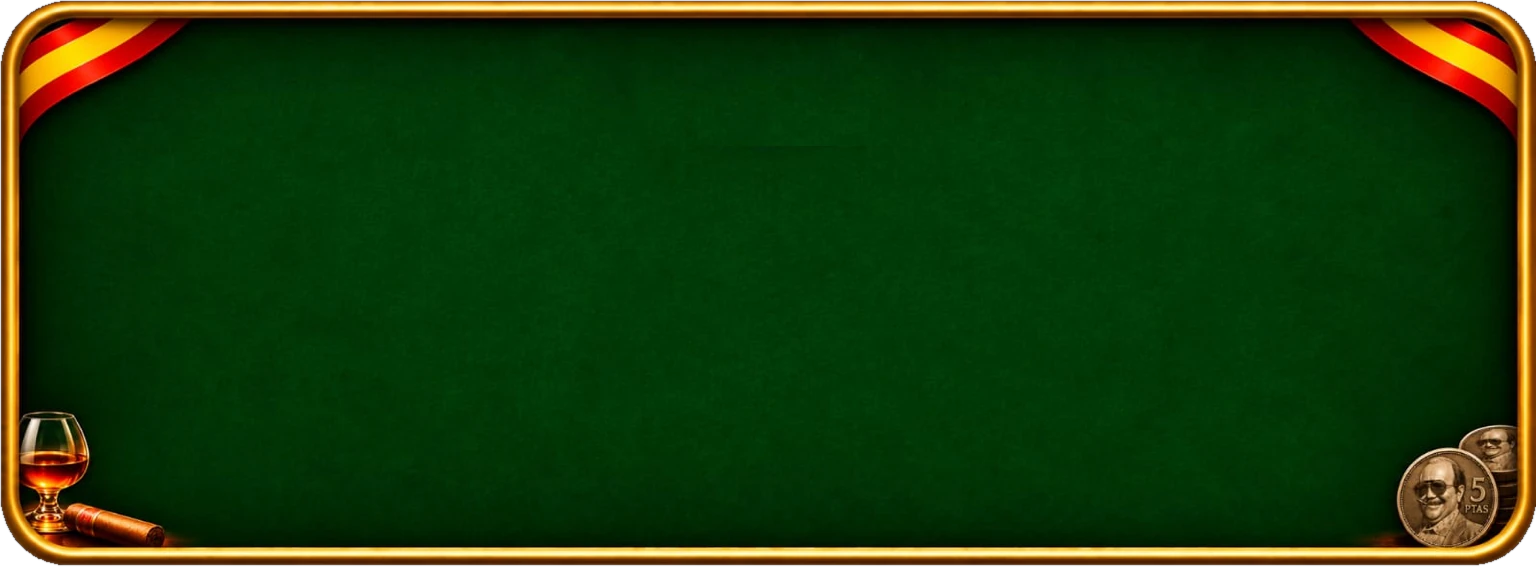
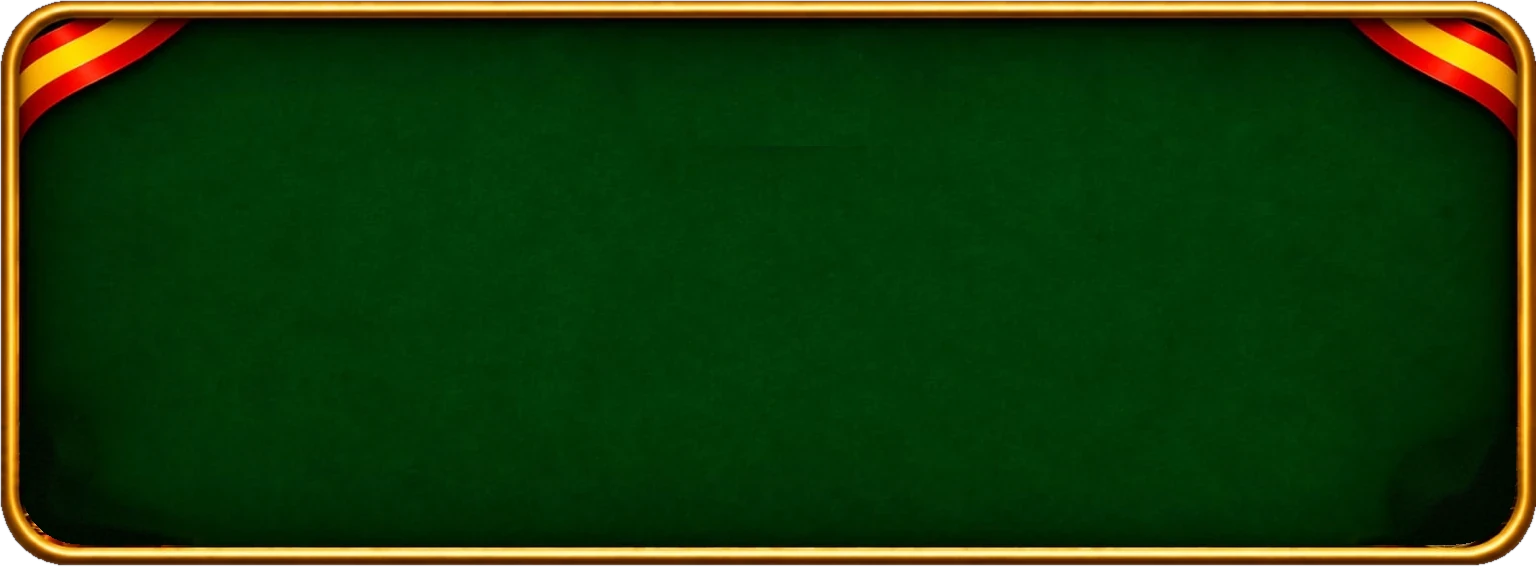
Tapete: copa y monedas un 45 % más grandes sin pisar nada
La copa con el puro y las monedas se separan del marco (silueta con transparencia) y
se dibujan aparte, ampliadas desde su esquina interior; el marco queda limpio debajo.
La franja libre inferior crece exactamente lo que ocupan. En mesas donde ni
encogiendo al mínimo cabe el contenido, los adornos ceden sitio antes.

Claude-Session: https://claude.ai/code/session_01CZ7U547hvW6Fga5U6412c8

Changed region(s): [[0.875, 0.7443, 1.0, 0.9527], [0.0, 0.7145, 0.125, 0.9527]]

diff --git a/apps/web/catalog-games.css b/apps/web/catalog-games.css
@@ -482,17 +482,19 @@ button.burro-back{cursor:pointer}button.burro-back:hover,button.burro-back:focus
 /* ── Tapete clásico de cartas (marco dorado, banderas, copa y monedas) ─────────────────────────
    La imagen original (1536×571) se dibuja como border-image de 9 piezas: las cuatro esquinas, que
    llevan los adornos, conservan siempre su proporción; los lados y el centro son paño y se estiran.
-   Cortes de la imagen: 142 arriba · 192 a cada lado · 168 abajo (cubren banderas, copa y monedas).
-   El logo va aparte (::before) para que no se deforme al estirar la tira superior.
+   Cortes de la imagen: 142 arriba · 192 a cada lado · 168 abajo (cubren banderas y marco).
+   El logo va aparte (::before) para que no se deforme al estirar la tira superior, y la copa y las
+   monedas también (::after), dibujadas --felt-deco veces más grandes desde su esquina interior.
    El relleno del tapete reserva exactamente esas franjas: ninguna carta ni texto pisa un adorno. */
 .catalog-screen:is([data-game="brisca"],[data-game="tute"],[data-game="guinote"],[data-game="butifarra"],[data-game="pocha"],[data-game="julepe"],[data-game="escoba"],[data-game="chinchon"],[data-game="remigio"],[data-game="continental"],[data-game="burro"],[data-game="mentiroso"],[data-game="siete_y_medio"]) .catalog-surface{
  --felt-w:clamp(34px,min(11vw,9.5svh),92px);
  --felt-top:calc(var(--felt-w) * 142 / 192);
- --felt-bottom:calc(var(--felt-w) * 168 / 192);
+ --felt-deco:1.45;
+ --felt-bottom:calc(var(--felt-w) * (26 + 135 * var(--felt-deco)) / 192);
  --felt-side:calc(var(--felt-w) * 24 / 192);
  position:relative;isolation:isolate;
  border:3px solid transparent;
- border-image:url('./assets/tapete-cartas-marco.webp') 142 192 168 192 fill / var(--felt-top) var(--felt-w) var(--felt-bottom) var(--felt-w) / 0 stretch;
+ border-image:url('./assets/tapete-cartas-marco.webp') 142 192 168 192 fill / var(--felt-top) var(--felt-w) calc(var(--felt-w) * 168 / 192) var(--felt-w) / 0 stretch;
  border-radius:calc(var(--felt-w) * 54 / 192);
  background:none;
  box-shadow:0 5px 12px #0008;
@@ -504,4 +506,11 @@ button.burro-back{cursor:pointer}button.burro-back:hover,button.burro-back:focus
  top:calc(var(--felt-w) * 22 / 192 - 3px);left:50%;translate:-50% 0;
  width:calc(var(--felt-w) * 287 / 192);aspect-ratio:287 / 124;
  background:url('./assets/tapete-cartas-logo.webp') center / 100% 100% no-repeat;
+}
+
+.catalog-screen:is([data-game="brisca"],[data-game="tute"],[data-game="guinote"],[data-game="butifarra"],[data-game="pocha"],[data-game="julepe"],[data-game="escoba"],[data-game="chinchon"],[data-game="remigio"],[data-game="continental"],[data-game="burro"],[data-game="mentiroso"],[data-game="siete_y_medio"]) .catalog-surface::after{
+ content:'';position:absolute;z-index:-1;pointer-events:none;
+ left:0;right:0;bottom:calc(var(--felt-w) * 26 / 192 - 3px);height:calc(var(--felt-w) * 135 * var(--felt-deco) / 192);
+ background:url('./assets/tapete-cartas-copa.webp') left calc(var(--felt-w) * 20 / 192 - 3px) bottom 0 / calc(var(--felt-w) * 172 * var(--felt-deco) / 192) auto no-repeat,
+  url('./assets/tapete-cartas-monedas.webp') right calc(var(--felt-w) * 20 / 192 - 3px) bottom 0 / calc(var(--felt-w) * 158 * var(--felt-deco) / 192) auto no-repeat;
 }

diff --git a/apps/web/cinquillo-table.css b/apps/web/cinquillo-table.css
@@ -176,13 +176,14 @@ body:has(.cinquillo-screen) { background:radial-gradient(ellipse at 50% 0,#352a3
 .game-page.cinquillo-screen .game-table{
  --felt-w:clamp(22px,min(11.5cqw,11cqh),92px);
  --felt-top:calc(var(--felt-w) * 142 / 192);
- --felt-bottom:calc(var(--felt-w) * 168 / 192);
+ --felt-deco:1.45;
+ --felt-bottom:calc(var(--felt-w) * (26 + 135 * var(--felt-deco)) / 192);
  --felt-in-top:calc(13px + var(--felt-top));
  --felt-in-bottom:calc(13px + var(--felt-bottom));
 }
 .game-page.cinquillo-screen .game-table .table-surface{
  border:3px solid transparent;
- border-image:url('./assets/tapete-cartas-marco.webp') 142 192 168 192 fill / var(--felt-top) var(--felt-w) var(--felt-bottom) var(--felt-w) / 0 stretch;
+ border-image:url('./assets/tapete-cartas-marco.webp') 142 192 168 192 fill / var(--felt-top) var(--felt-w) calc(var(--felt-w) * 168 / 192) var(--felt-w) / 0 stretch;
  border-radius:calc(var(--felt-w) * 54 / 192);
  background:none;
  box-shadow:0 5px 12px #0008;
@@ -200,5 +201,11 @@ body:has(.cinquillo-screen) { background:radial-gradient(ellipse at 50% 0,#352a3
 @media(min-width:900px) and (min-height:700px){
  .game-page.cinquillo-screen .game-table .table-center{--pile-w:clamp(28px,min(calc((100cqw - 132px) / 4),calc((100cqh - var(--felt-in-top) - var(--felt-in-bottom) - 124px) / 3.068)),94px);}
 }
+.game-page.cinquillo-screen .game-table .table-surface::after{
+ content:'';position:absolute;pointer-events:none;
+ left:0;right:0;bottom:calc(var(--felt-w) * 26 / 192 - 3px);height:calc(var(--felt-w) * 135 * var(--felt-deco) / 192);
+ background:url('./assets/tapete-cartas-copa.webp') left calc(var(--felt-w) * 20 / 192 - 3px) bottom 0 / calc(var(--felt-w) * 172 * var(--felt-deco) / 192) auto no-repeat,
+  url('./assets/tapete-cartas-monedas.webp') right calc(var(--felt-w) * 20 / 192 - 3px) bottom 0 / calc(var(--felt-w) * 158 * var(--felt-deco) / 192) auto no-repeat;
+}
 /* El aviso de jugada se apoya sobre el marco inferior, entre la copa y las monedas. */
-.game-page.cinquillo-screen .game-table .turn-story-slot{bottom:calc(10px + 3px + var(--felt-w) * 28 / 192);left:calc(2px + var(--felt-w) * 182 / 192);right:calc(2px + var(--felt-w) * 166 / 192);}
+.game-page.cinquillo-screen .game-table .turn-story-slot{bottom:calc(10px + 3px + var(--felt-w) * 28 / 192);left:calc(2px + var(--felt-w) * (20 + 172 * var(--felt-deco)) / 192);right:calc(2px + var(--felt-w) * (20 + 158 * var(--felt-deco)) / 192);}

diff --git a/apps/web/table-fit.js b/apps/web/table-fit.js
@@ -22,11 +22,13 @@ function fit(box,targets,min,start=1){
 // Tapete clásico: los adornos de las esquinas se dimensionan con el tapete real (no con la pantalla),
 // para que en mesas bajas reserven poco alto y el contenido no tenga que encogerse de más.
 // El tamaño del tapete lo fija la rejilla de la pantalla, no su relleno: medirlo no cambia el resultado.
+const FELT_MIN=22;
 function sizeFelt(surface){
- if(!getComputedStyle(surface).borderImageSource.includes('tapete-cartas'))return;
- const box=surface.getBoundingClientRect();if(!box.width||!box.height)return;
- const size=Math.max(22,Math.min(92,box.width*0.115,box.height*0.11));
+ if(!getComputedStyle(surface).borderImageSource.includes('tapete-cartas'))return 0;
+ const box=surface.getBoundingClientRect();if(!box.width||!box.height)return 0;
+ const size=Math.max(FELT_MIN,Math.min(92,box.width*0.115,box.height*0.11));
  surface.style.setProperty('--felt-w',size.toFixed(1)+'px');
+ return size;
 }
 const flowChildren=el=>[...el.children].filter(child=>getComputedStyle(child).position!=='absolute');
 export function fitTable(root){
@@ -35,9 +37,14 @@ export function fitTable(root){
   const hand=dock?[...dock.querySelectorAll(':scope > .catalog-hand')]:[];
   let handScale=fit(dock,hand,MIN_HAND);
   if(!surface)continue;
-  sizeFelt(surface);
+  let felt=sizeFelt(surface);
   const kids=flowChildren(surface);
   let tableScale=fit(surface,kids,MIN_TABLE);
+  // Si ni encogiendo al mínimo cabe la mesa, los adornos ceden sitio antes que el contenido.
+  while(felt>FELT_MIN&&surface.scrollHeight-surface.clientHeight>1){
+   felt=Math.max(FELT_MIN,felt*0.9);surface.style.setProperty('--felt-w',felt.toFixed(1)+'px');
+   tableScale=fit(surface,kids,MIN_TABLE);
+  }
   // A cramped felt borrows height from the hand: smaller private cards, larger table.
   while(tableScale<COMFORT&&hand.length&&handScale>MIN_HAND){
    handScale=Math.max(MIN_HAND,handScale*0.9);setZoom(hand,handScale);

diff --git a/apps/web/sw.js b/apps/web/sw.js
@@ -5,7 +5,7 @@ const ASSETS = ['./mus-table.js','./mus-flow.js','./game-core/games/mus-legacy.j
   "./game-picker.js", "./board-games.js", "./board-games.css", "./board-motion.js", "./turn-events.js", "./card-names.js", "./turn-sequence.js", "./turn-sequence.css", "./game-physics.js", "./table-fit.js", "./bot-pacing.js", "./card-paint.js", "./table-speech.js",
   "./catalog-games.js", "./catalog-games.css", "./tetuno-table.js", "./card-motion.js", "./game-core/games/tetuno.js", "./rulebooks/tetuno.js", ...[0,1,2,3,4,5,6,7,8,9].map(n => `./assets/avatars/${n}.webp`), "./game-core/games/shared.js", "./game-core/games/boards.js", "./game-core/games/social-cards.js", "./game-core/games/tricks.js", "./game-core/games/melds.js", "./game-core/games/holdem.js",
   "./assets/elteto-cover-balanced-v5.png", "./assets/fuegote-transparent-v2.webp", "./assets/fuegote-finger-v2.webp", "./assets/juegos-tablero.webp", "./assets/juegos-cartas.webp",
-  "./avatar-art.js", "./assets/elteto-logo-neon-v3.png", "./assets/eltetoca-board-center.webp", "./assets/tetuno-pared.webp","./assets/tapete-cartas-marco.webp","./assets/tapete-cartas-logo.webp", "./assets/tetuno-bando-izq.webp", "./assets/tetuno-bando-der.webp", "./assets/elteto-avatars-v3.png",
+  "./avatar-art.js", "./assets/elteto-logo-neon-v3.png", "./assets/eltetoca-board-center.webp", "./assets/tetuno-pared.webp","./assets/tapete-cartas-marco.webp","./assets/tapete-cartas-logo.webp","./assets/tapete-cartas-copa.webp","./assets/tapete-cartas-monedas.webp", "./assets/tetuno-bando-izq.webp", "./assets/tetuno-bando-der.webp", "./assets/elteto-avatars-v3.png",
   "./parchis-dice.js", "./parchis-dice.css",
   "./parchis-board.js", "./parchis-geometry.js", "./parchis-board.css", "./game-core/games/parchis.js",
   "./mus-screen.js", "./mus-screen.css",
